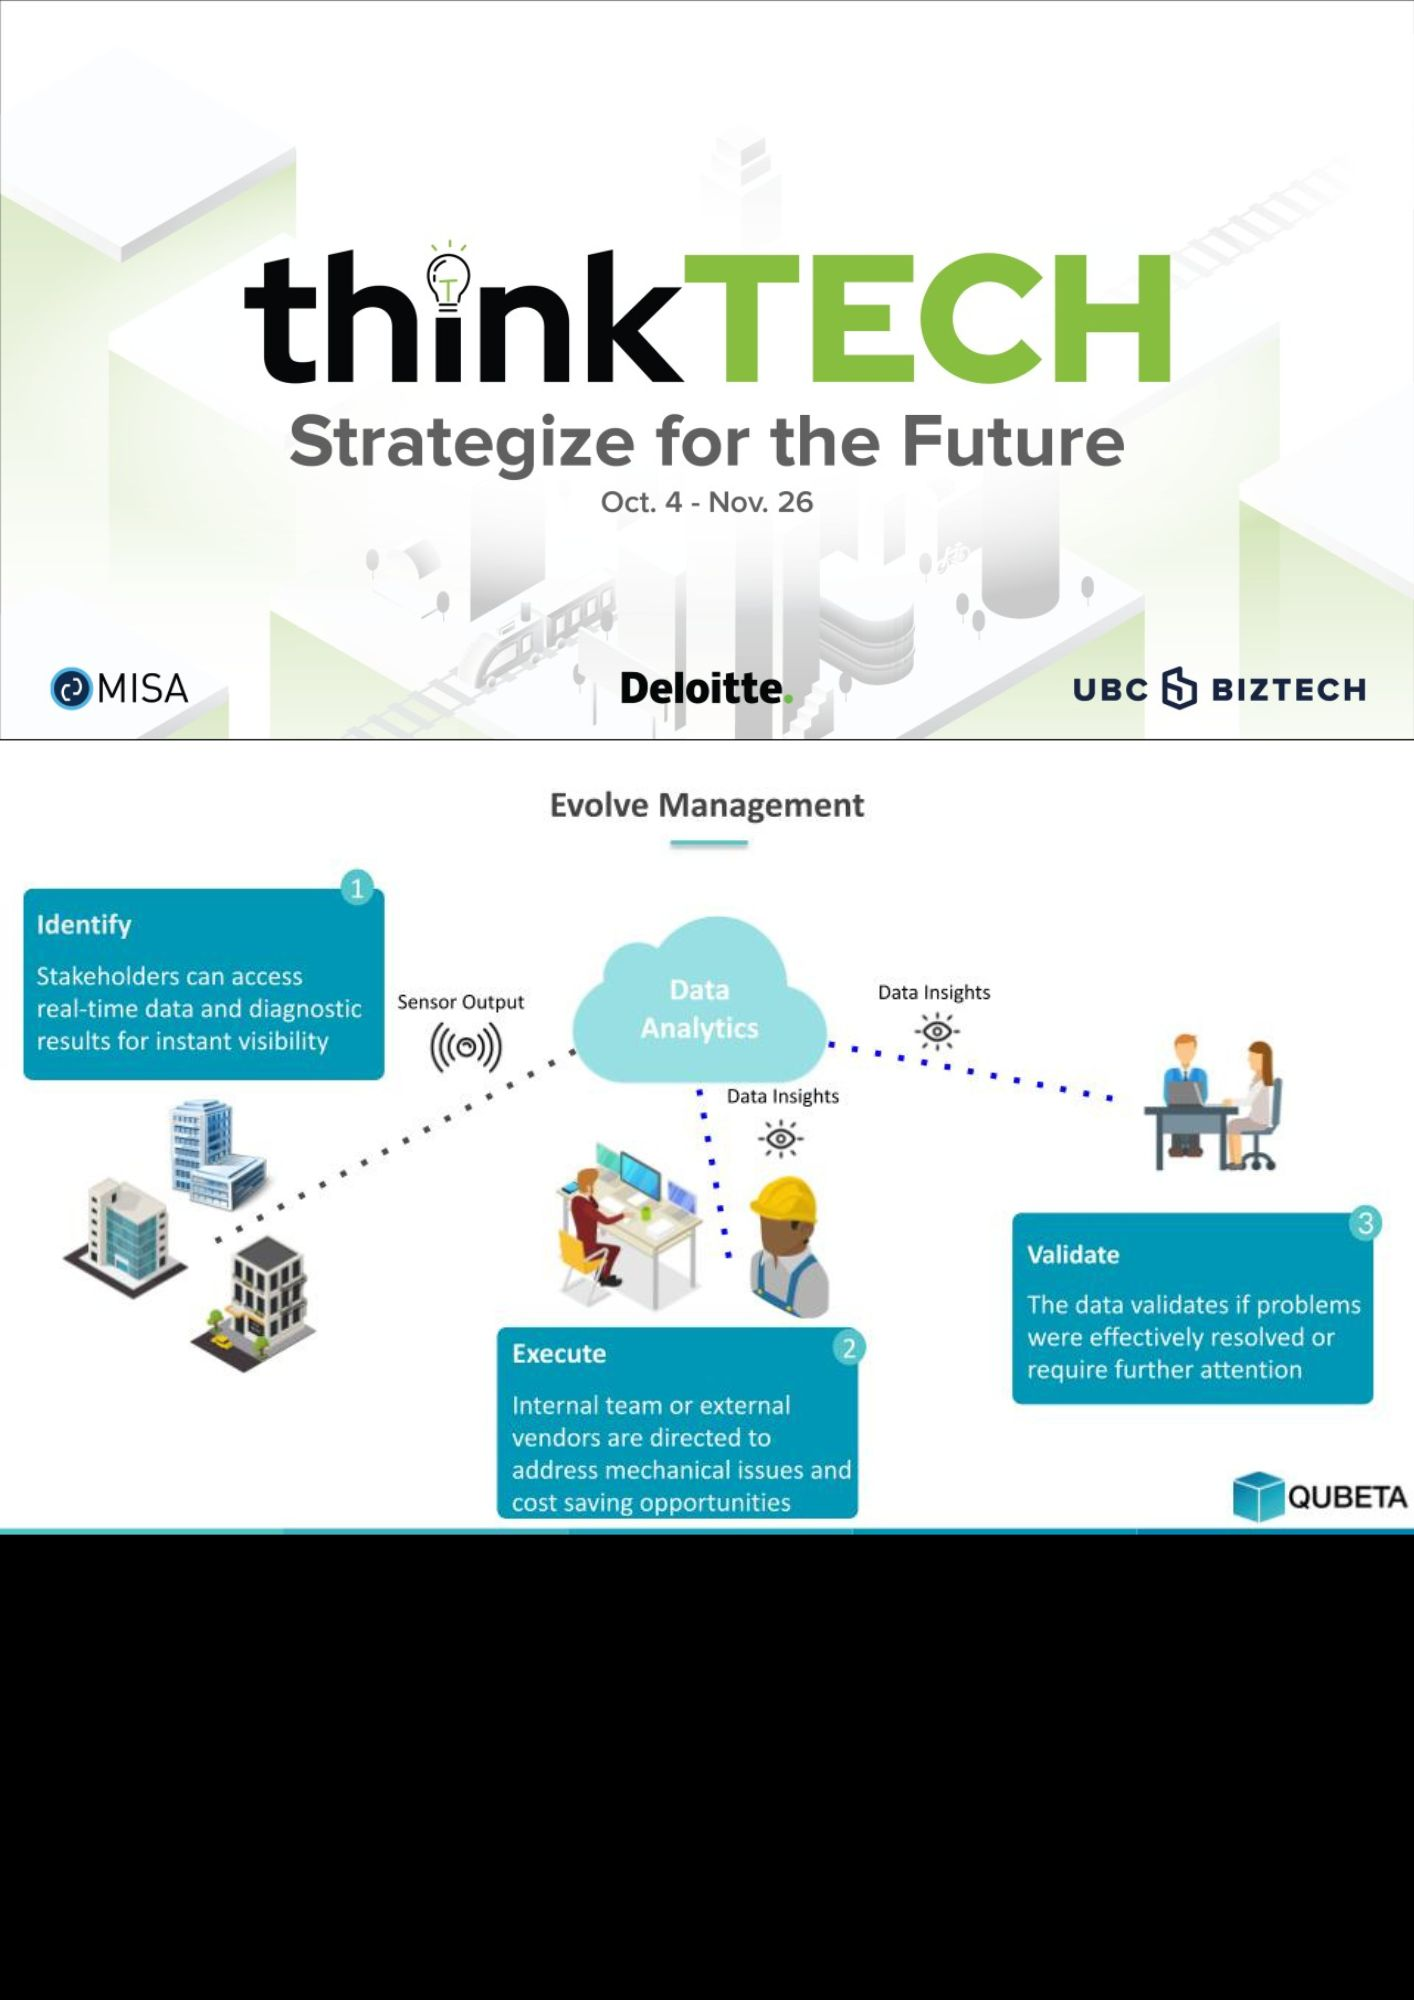
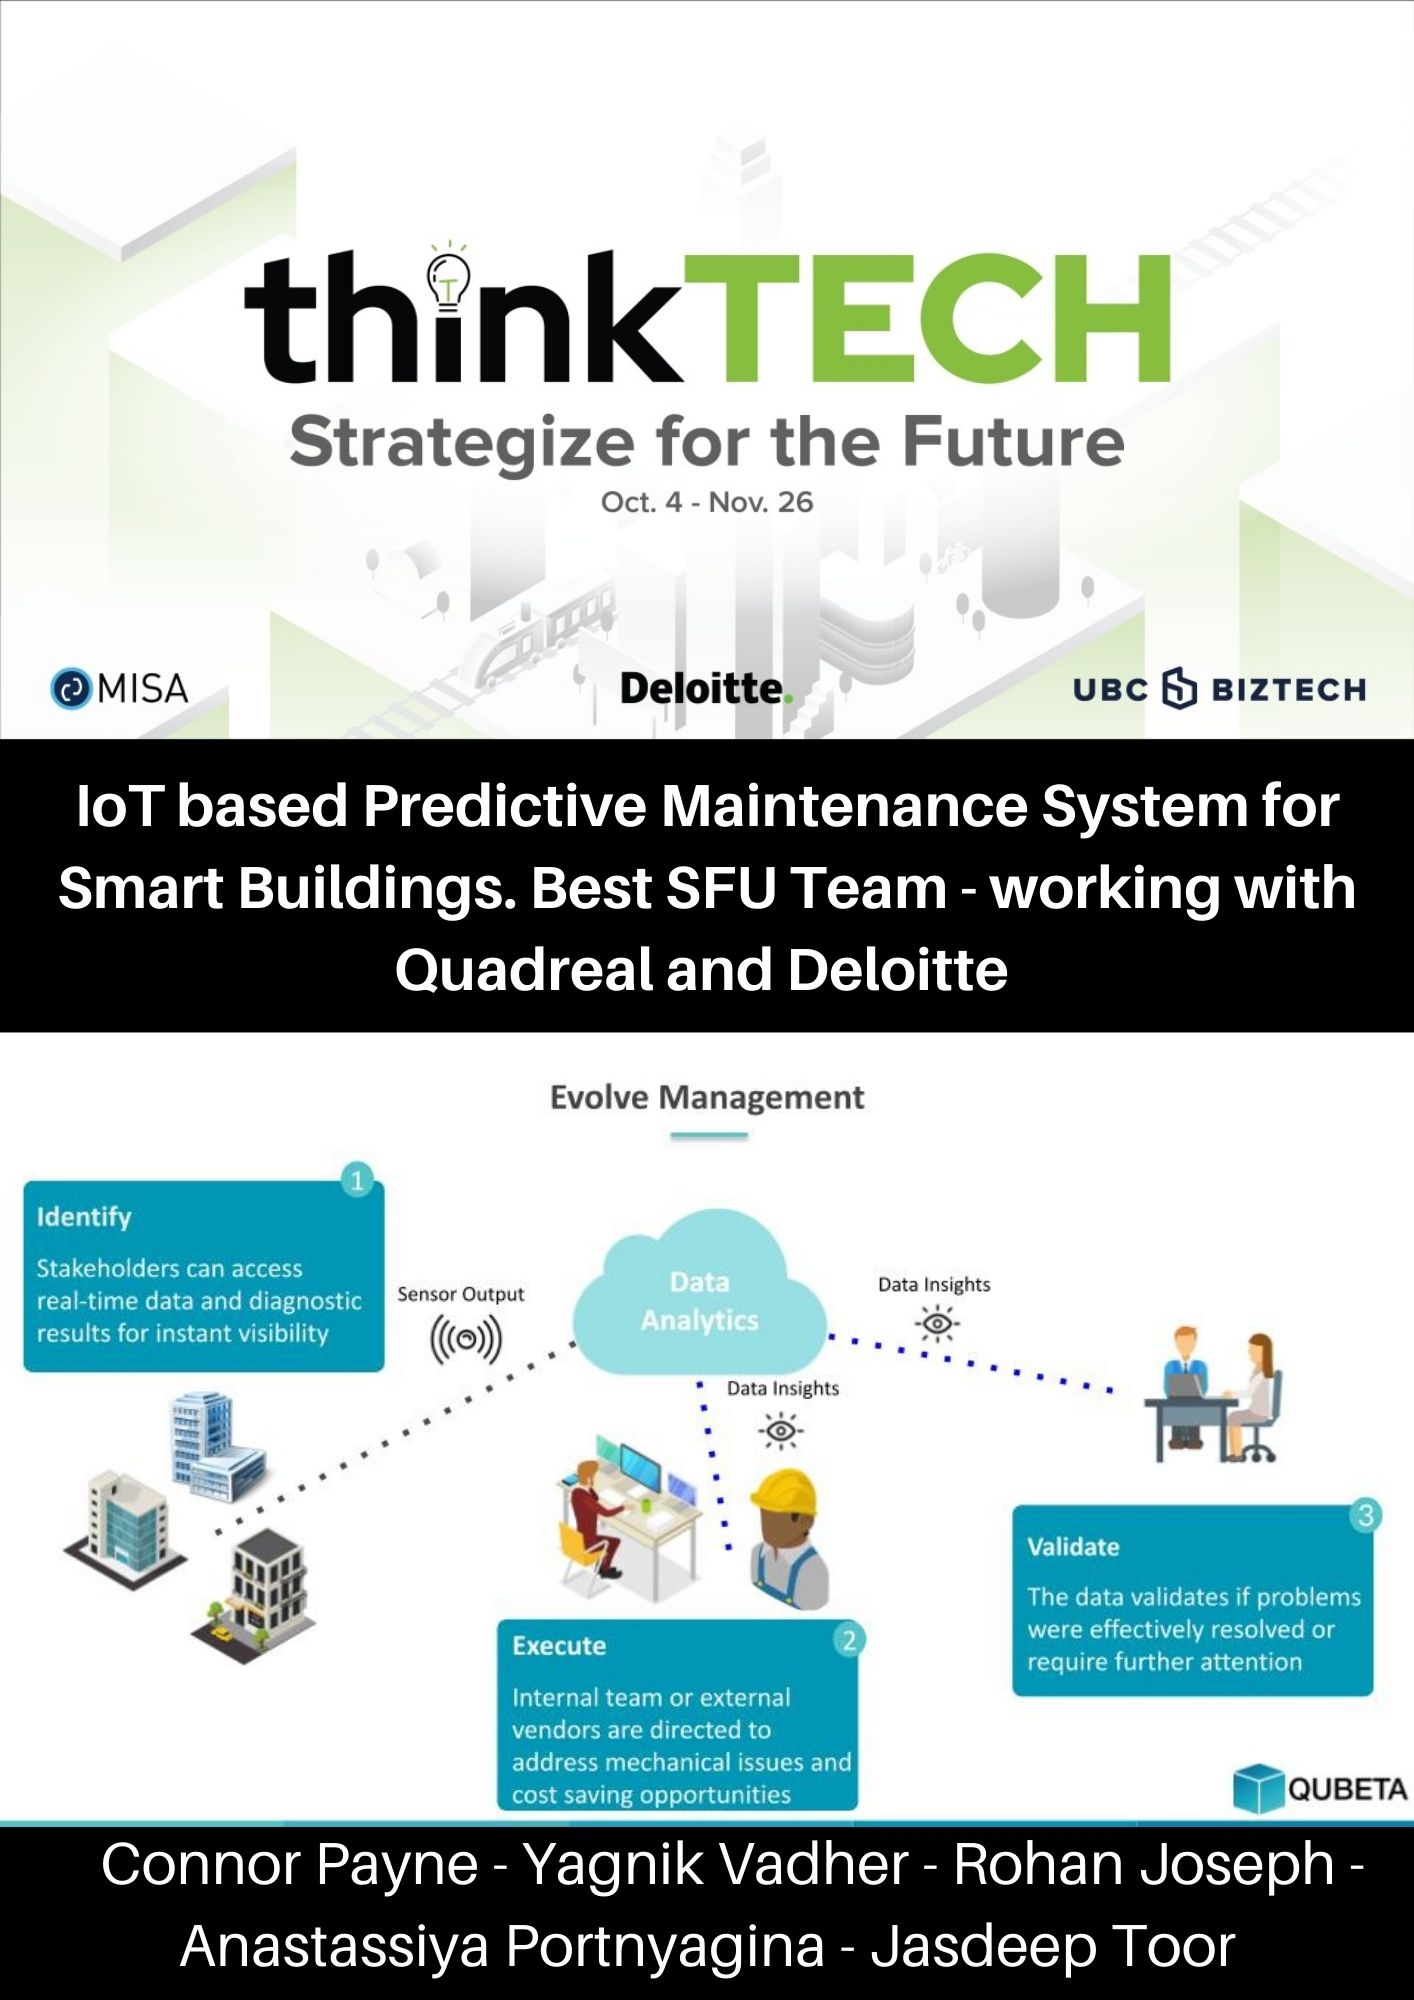
Added images for projects and updated descriptions

diff --git a/index.html b/index.html
@@ -605,7 +605,7 @@
 
           <div class="col-md-6 col-lg-4 wow fadeInUp">
             <div class="grid-item template wireframes wow zoomIn">
-              <div class="img-place" data-src="../assets/img/work/Summary.jpg" data-fancybox data-caption="<h5 class='fg-theme'>Map the System 2020</h5> <p>About Map The System </p>">
+              <div class="img-place" data-src="../assets/img/work/Summary.jpg" data-fancybox data-caption="<h5 class='fg-theme'>Map the System 2020</h5> <p>Map the System is a global competition that asks students and educators to think differently about social environmental change. </p>">
                 <img src="../assets/img/work/Summary.jpg" alt="">
                 <div class="img-caption">
                   <a href="https://drive.google.com/file/d/1ZgJUO6jlajgNgipR-xvXftzYisxmgrLG/view?usp=drive_link">
@@ -619,7 +619,7 @@
 
           <div class="col-md-6 col-lg-4 wow fadeInUp">
             <div class="grid-item template wireframes wow zoomIn">
-              <div class="img-place" data-src="../assets/img/work/CritHMMs.jpg" data-fancybox data-caption="<h5 class='fg-theme'>Editor Bot Data Extractor</h5> <p>Bash Script and Python pandas based bot for processing JSON metadata</p>">
+              <div class="img-place" data-src="../assets/img/work/CritHMMs.jpg" data-fancybox data-caption="<h5 class='fg-theme'>CMPT 318 - Cybersecurity</h5> <p>Course that focused on data and statistical analysis for predictive anomaly detection using Bayesian Probability and Supervised Learning in R and Python</p>">
                 <img src="../assets/img/work/CritHMMs.jpg" alt="">
                 <div class="img-caption">
                   <a href="https://drive.google.com/file/d/1kMTHKYxJjEneFJJq53YMLtKTZgHAqY34/view?usp=drive_link">
@@ -633,11 +633,12 @@
 
           <div class="col-md-6 col-lg-4 wow fadeInUp">
             <div class="grid-item apps ios wow zoomIn">
-              <div class="img-place" data-src="../assets/img/work/Thinktech.jpg" data-fancybox data-caption="<h5 class='fg-theme'>Bash Daemon Collection</h5> <p>A Series of Debian Bash Scripts that use the adb shell to automate mundane phone tasks</p>">
+              <div class="img-place" data-src="../assets/img/work/Thinktech.jpg" data-fancybox data-caption="<h5 class='fg-theme'>Deloitte Thinktech 2018</h5> <p>ThinkTECH invites business and/or technology minded students to work in teams to develop a functional prototype and business strategy to solve a real problem around an emerging technology.
+                Teams will be formed by Deloitte, and each will consist of both Business and Technical students.</p>">
                 <img src="../assets/img/work/Thinktech.jpg" alt="">
                 <div class="img-caption">
                   <a href="https://docs.google.com/presentation/d/1uxq1KzqRCZOCBAB3iG1iAVCWuTm0t-4B/edit?usp=drive_link&ouid=105391786470571954442&rtpof=true&sd=true">
-                  <h5 class="fg-theme">Predictive Maintenance</h5>
+                  <h5 class="fg-theme">Predictive Maintenance using IoT for Smart Buildings</h5>
                   </a>
                   <p>Case Competition entry for the 2018 Deloitte Thinktech (Winning Team) for our project based on Predictive Maintenance using IoT technology</p>
                 </div>
@@ -647,8 +648,8 @@
           
           <div class="col-md-6 col-lg-4 wow fadeInUp">
             <div class="grid-item graphic ui-ux wow zoomIn">
-              <div class="img-place" data-src="../assets/img/work/work-4.jpg" data-fancybox data-caption="<h5 class='fg-theme'>Food Delivery Bot</h5> <p>Rube Goldberg style Program for ordering food, incorporating uneccesarily complicated but heavily technical elements</p>">
-                <img src="../assets/img/work/work-4.jpg" alt="">
+              <div class="img-place" data-src="../assets/img/work/work-4.jpg" data-fancybox data-caption="<h5 class='fg-theme'>SFU CSSS Mountain Madness Hackathon</h5> <p>Rube Goldberg style Program for ordering food, incorporating uneccesarily complicated but heavily technical elements</p>">
+                <img src="../assets/img/work/CSSS.jpg" alt="">
                 <div class="img-caption">
                   <h5 class="fg-theme">Food Delivery Bot</h5>
                   <p>Rube Goldberg style Program for ordering food, incorporating uneccesarily complicated but heavily technical elements</p>
@@ -659,11 +660,11 @@
 
           <div class="col-md-6 col-lg-4 wow fadeInUp">
             <div class="grid-item apps ios wow zoomIn">
-              <div class="img-place" data-src="../assets/img/work/work-5.jpg" data-fancybox data-caption="<h5 class='fg-theme'>Archive of the Digital Present</h5> <p>A SHHRC funded Website I was the lead developer for</p>">
-                <img src="../assets/img/work/work-5.jpg" alt="">
+              <div class="img-place" data-src="../assets/img/work/work-5.jpg" data-fancybox data-caption="<h5 class='fg-theme'>Circular Innovation Jam 2020</h5> <p>The Circular Innovation Jam sought to develop inclusive, innovative solutions to advance local circular economies for plastics and effective waste management systems across South and Southeast Asia.</p>">
+                <img src="../assets/img/work/CIJ.jpg" alt="">
                 <div class="img-caption">
-                  <h5 class="fg-theme">Circular Innovation Jam</h5>
-                  <p> Projects as part of a startup attempting to bring a circular economy for plastic recycling and waste management </p>
+                  <h5 class="fg-theme">Computer Vision based Plastic Segregation System</h5>
+                  <p> Projects as part of a startup attempting to bring a circular economy for plastic recycling and waste management <a href = "https://www.incubationnetwork.com/programs/circular-innovation-jam-2020/">Link to Website</a> </p>
                 </div>
               </div>
             </div>
@@ -671,16 +672,16 @@
 
           <div class="col-md-6 col-lg-4 wow fadeInUp">
             <div class="grid-item apps ios wow zoomIn">
-              <div class="img-place" data-src="../assets/img/work/work-5.jpg" data-fancybox data-caption="<h5 class='fg-theme'>Archive of the Digital Present</h5> <p>A SHHRC funded Website I was the lead developer for</p>">
-                <img src="../assets/img/work/work-5.jpg" alt="">
+              <div class="img-place" data-src="../assets/img/work/work-5.jpg" data-fancybox data-caption="<h5 class='fg-theme'>ADB Project - Digital Technology to Assess Safeguard Impacts</h5> <p>How can digital technologies help us remotely assess and classify the impact on land, assets, people, and environment?</p>">
+                <img src="../assets/img/work/gAIa.jpg" alt="">
                 <div class="img-caption">
-                  <h5 class="fg-theme">AIClean</h5>
-                  <p> Projects as part of a startup attempting to bring a circular economy for plastic recycling and waste management </p>
+                  <h5 class="fg-theme">gAIa GIS</h5>
+                  <p> A model using predictive analysis to effectively indicate to users interested in setting up COIs the impacts of projects, in an attempt to foster awareness and preserve land, people and ecosystems. <a href = "https://challenges.adb.org/en/challenges/new-normal-digital-technology-to-assess-safeguard-impacts/pages/challenge-results?lang=en">Link to Website</a></p>
                 </div>
               </div>
             </div>
           </div>
-
+          <!--
           <div class="col-md-6 col-lg-4 wow fadeInUp">
             <div class="grid-item apps ios wow zoomIn">
               <div class="img-place" data-src="../assets/img/work/work-5.jpg" data-fancybox data-caption="<h5 class='fg-theme'>Archive of the Digital Present</h5> <p>A SHHRC funded Website I was the lead developer for</p>">
@@ -716,7 +717,9 @@
               </div>
             </div>
           </div>
+          -->
         </div>  
+
         <!--div class="text-center wow fadeInUp">
           <a href="javascript:void(0)" class="btn btn-theme">Load More</a>
         </div-->
